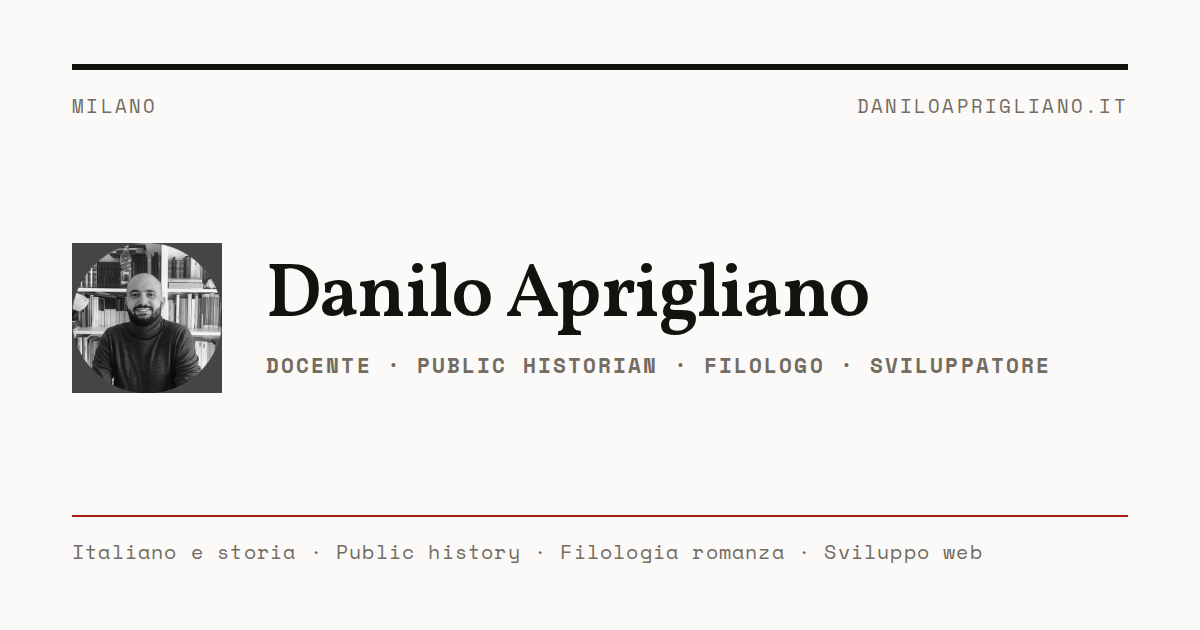
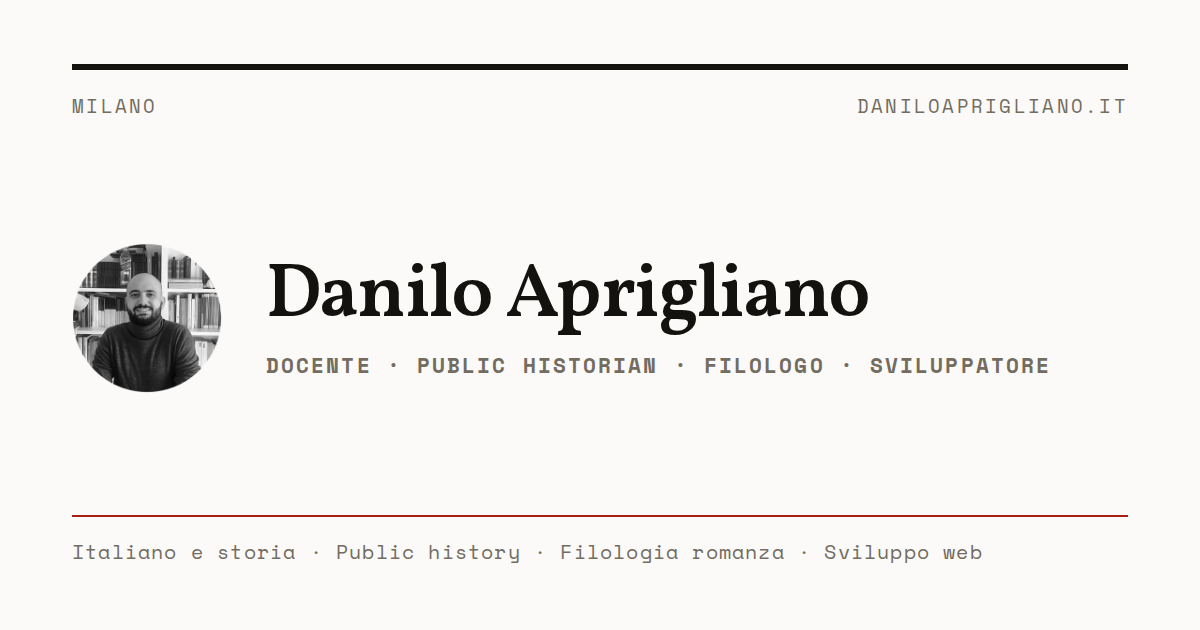
Il ritratto è un tondo, non un tondo dentro un quadrato
Il file era un PNG circolare appiattito in JPEG su fondo magenta: negli
angoli restava il magenta, che in bianco e nero passava per grigio scuro.
Ora è un PNG con la trasparenza vera, mascherato sul cerchio, e il CSS lo
ritaglia tondo. Vale anche per la cartolina social.

Claude-Session: https://claude.ai/code/session_01115jWJc75dUHYp1d5G85f8

Changed region(s): [[0.0617, 0.3619, 0.185, 0.5127], [0.0617, 0.5429, 0.185, 0.6333]]

diff --git a/en/index.html b/en/index.html
@@ -44,7 +44,7 @@
   </div>
 
   <div class="testata-nome">
-    <img class="ritratto" src="../media/ritratto.jpg" width="64" height="64"
+    <img class="ritratto" src="../media/ritratto.png" width="64" height="64"
          alt="Portrait of Danilo Aprigliano in front of a bookcase">
     <h1 class="nome">Danilo Aprigliano<span class="qualifiche">teacher · public historian · philologist · developer</span></h1>
   </div>

diff --git a/stile.css b/stile.css
@@ -148,8 +148,8 @@ em{font-style:italic}
    il rosso della rubrica resta l'unico colore della pagina */
 .ritratto{
   width:64px;height:64px;max-width:64px;aspect-ratio:1/1;
-  border-radius:0;object-fit:cover;justify-self:start;
-  background:var(--carta-alt);
+  border-radius:50%;object-fit:cover;justify-self:start;
+  background:none;
   filter:grayscale(1) contrast(1.06);
 }
 @media (prefers-color-scheme: dark){

diff --git a/index.html b/index.html
@@ -44,7 +44,7 @@
   </div>
 
   <div class="testata-nome">
-    <img class="ritratto" src="media/ritratto.jpg" width="64" height="64"
+    <img class="ritratto" src="media/ritratto.png" width="64" height="64"
          alt="Ritratto di Danilo Aprigliano davanti a una libreria">
     <h1 class="nome">Danilo Aprigliano<span class="qualifiche">docente · public historian · filologo · sviluppatore</span></h1>
   </div>
